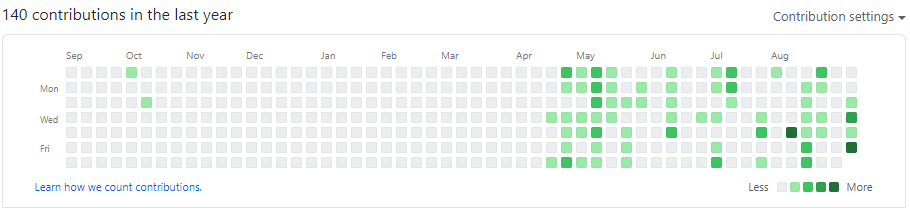
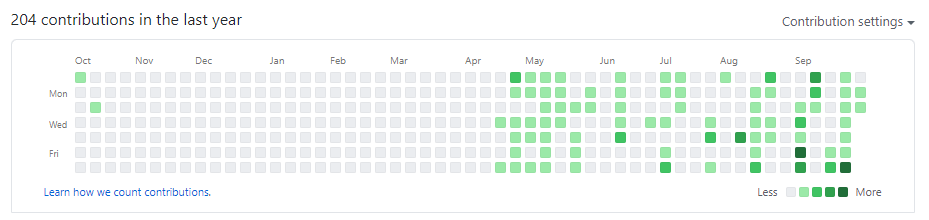
github commits update

diff --git a/index.html b/index.html
@@ -323,7 +323,7 @@
                 </div>
                 <div class="col-md-3 col-sm-6">
                     <div class="item">
-                        <h2 class="counter">140+</h2>
+                        <h2 class="counter">200+</h2>
                         <p>Github Commits</p>
                     </div>
                 </div>
